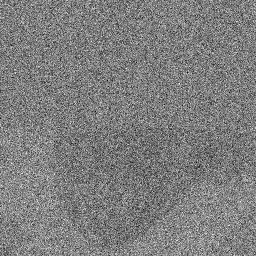
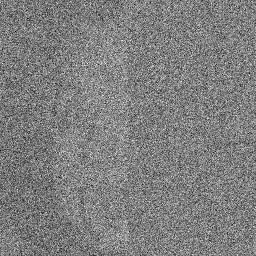
Falta poda

diff --git a/Practica 9/WS/Practica9/src/clases/profesor/PromediadorImagen.java b/Practica 9/WS/Practica9/src/clases/profesor/PromediadorImagen.java
@@ -10,7 +10,7 @@ public class PromediadorImagen {
 	private Imagen real_img, bad_img; // para almacenar las imagenes con patron bueno y malo (negativo del malo)
 	private Imagen avg_img, half1_img, half2_img; // para almacenar los promedios del subconjunto 1 y 2
 	private Imagen[] dataset; // almacena el conjunto de de imagenes generadas (buenas y malas)
-	private int[] sol; // array que determina donde poner las im�genes 0->no asignada, 1->primer subconjunto, 2->segundo subconjunto
+	public int[] sol; // array que determina donde poner las im�genes 0->no asignada, 1->primer subconjunto, 2->segundo subconjunto
 	private int[] bestSol; // mejor soluci�n
 	private int width, height; // ancho y alto de las im�genes
 	//backtracking variables
@@ -116,43 +116,48 @@ public class PromediadorImagen {
 		Random r = new Random();
 		int val; 
 		int[] aux = new int[dataset.length];
-		Imagen half_img1;
-		Imagen half_img2;
-		double znnc = -1;
+//		Imagen half_img1;
+//		Imagen half_img2;
+//		double znnc = -1;
 		for (int j=0;j<n_tries;j++) {
-			half_img1 = new Imagen(width, height);
-			half_img2 = new Imagen(width, height);
-			System.out.println("ENTRANDO DE NUEVO AL BUCLE");
+			half1_img = new Imagen(width, height);
+			half2_img = new Imagen(width, height);
+//			System.out.println("ENTRANDO DE NUEVO AL BUCLE");
 			for (int i=0; i<this.dataset.length;i++) {
 				val = r.nextInt((2-0)+1) + 0;
-				System.out.println(val);
+//				System.out.println(val);
 				switch(val) {
 					case 0:
 						aux[i] = 0;
 						break;
 					case 1:
 						aux[i] = 1;
-						half_img1.addSignal(this.dataset[i]);
+						half1_img.addSignal(this.dataset[i]);
 						break;
 					case 2:
 						aux[i] = 2;
-						half_img2.addSignal(this.dataset[i]);
+						half2_img.addSignal(this.dataset[i]);
 						break;
 				}		
 			}
 			if (this.zncc() > this.max_zncc) {
 				
-				System.out.println("IF CONDICIONAL: " + half_img1.zncc(half_img2));
-				this.half1_img = half_img1;
-				this.half2_img = half_img2;
+//				System.out.println("IF CONDICIONAL: " + this.zncc());
+//				this.half1_img = half_img1;
+//				this.half2_img = half_img2;
 				this.bestSol = aux;
 				this.max_zncc = this.zncc();
+				half1_img.addSignal(half2_img);
+				avg_img = half1_img;
 			}
 		}
 //		for (int k=0;k<this.dataset.length;k++) {
 //			avg_img.addSignal(dataset[k]);
 //		}
-		avg_img = half1_img;
+		for (int el : bestSol) {
+			System.out.print(el + " ");			
+		}
+		
 	}
 	
 	/**
@@ -164,11 +169,60 @@ public class PromediadorImagen {
 		// TODO
 	}
 
+	private int cont = 0;
+	//private int[] soluciones = new int[dataset.length];
+	private Random r = new Random();
+	
 	/**
 	 * Algoritmo backtracking sin condici�n de balanceo.           
 	 */
 	public void splitSubsetsBacktracking() {
-		// TODO
+		this.max_zncc = 0;
+		auxBacktracking(0, 0);
+		avg_img.addSignal(half1_img);
+		avg_img.addSignal(half2_img);
+	}
+	
+	private void auxBacktracking(int nivel, int valor) {
+		if (nivel == dataset.length) {
+			avg_img = new Imagen(width, height);
+			Imagen half_img1 = new Imagen(width, height);
+			Imagen half_img2 = new Imagen(width, height);
+			for (int i=0;i<sol.length;i++) {
+				if (sol[i] == 1) {
+					half_img1.addSignal(this.dataset[i]);
+				} else if (sol[i] == 2) {
+					half_img2.addSignal(this.dataset[i]);
+				}
+			}
+
+			if (half_img1.zncc(half_img2) > this.max_zncc) {
+				counter++;
+				for (int j = 0;j<sol.length;j++) {
+					bestSol[j] = sol[j];
+				}
+				this.max_zncc = half_img1.zncc(half_img2);
+				this.half1_img = half_img1;
+				this.half2_img = half_img2;
+
+			}
+			return;
+		} else {
+			sol[nivel] = 0;
+			auxBacktracking(nivel+1, 0);
+			sol[nivel] = 1;
+			auxBacktracking(nivel+1, 1);
+			sol[nivel] = 2;
+			auxBacktracking(nivel+1, 2);
+		}
+	}
+	
+	private void printSol() {
+		System.out.print("[");
+		for (int i : sol) {
+			System.out.print(i + ", ");
+		}
+		System.out.println("]");
 	}
 
 }

diff --git a/Practica 9/WS/Practica9/src/clases/profesor/PromediadorImagenBench.java b/Practica 9/WS/Practica9/src/clases/profesor/PromediadorImagenBench.java
@@ -2,7 +2,6 @@ package clases.profesor;
 
 import java.nio.file.Paths;
 
-
 public class PromediadorImagenBench {
 	
 	// Ajustes del banco de pruebas
@@ -10,7 +9,7 @@ public class PromediadorImagenBench {
 	private static String BAD_IMG = "img/einstein_1_256.png";
 	private static String OUT_DIR_G = "img/out_g/";
 	private static String OUT_DIR_B = "img/out_bt/";
-	private static int N_IMGS = 13; 
+	private static int N_IMGS = 3000; 
 	private static double PORCENTAJE_BAD = 25; // %
 	private static double S_NOISE = 5.0; // Nivel de ruido - desvici�n est�ndar de una distrubuci�n Gaussiana
 		
@@ -31,11 +30,17 @@ public class PromediadorImagenBench {
 		img_avger.saveResults(OUT_DIR_G);
 			
 //		System.out.print("TESTING BACKTRACKING CON BALANCEO:\n");
-//		img_avger.splitSubsetsBacktracking(1);
+//		img_avger.splitSubsetsBacktracking();
+//		System.out.println(img_avger.getCounter());
 //		System.out.printf("  -ZNCC: %f\n",  img_avger.zncc());
 //		System.out.printf("  -Contador: %d\n",  img_avger.getCounter());
 //		img_avger.saveResults(OUT_DIR_B);
+//		for (int el : img_avger.sol) {
+//			System.out.println(el);			
+//		}
 
+		
+		
 		// Medidas
 		// TODO
 	}

diff --git a/Practica 9/WS/Practica9/src/clases/profesor/Imagen.java b/Practica 9/WS/Practica9/src/clases/profesor/Imagen.java
@@ -210,7 +210,7 @@ public class Imagen {
 	/**
 	 * @return devluelve el valor medio de los niveles de gris (p�xeles)
 	 */
-	private float computeMean() {
+	protected float computeMean() {
 		float total = 0;
 		for (int i=0; i<this.width; i++) 
 			for (int j=0; j<this.height; j++)
